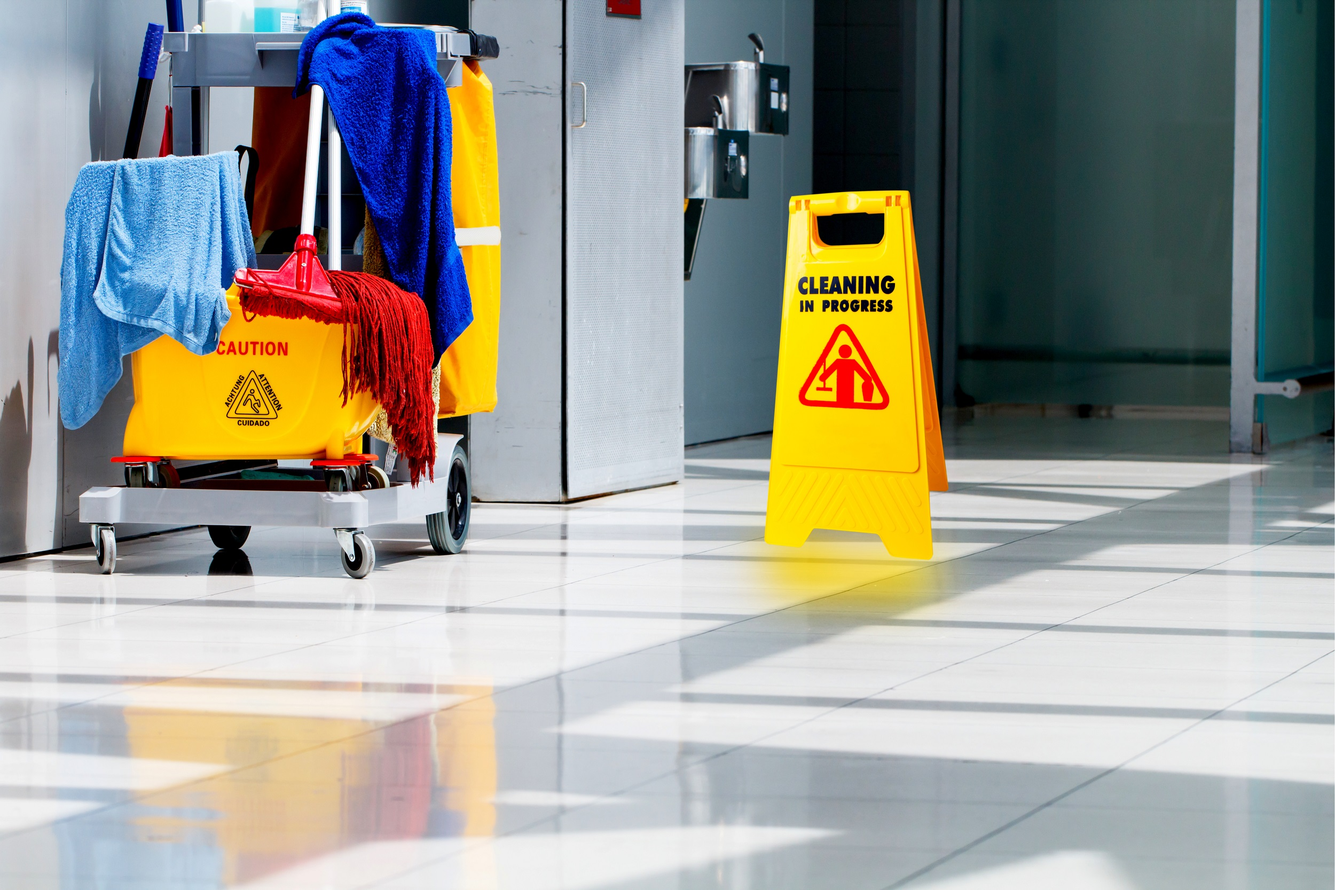
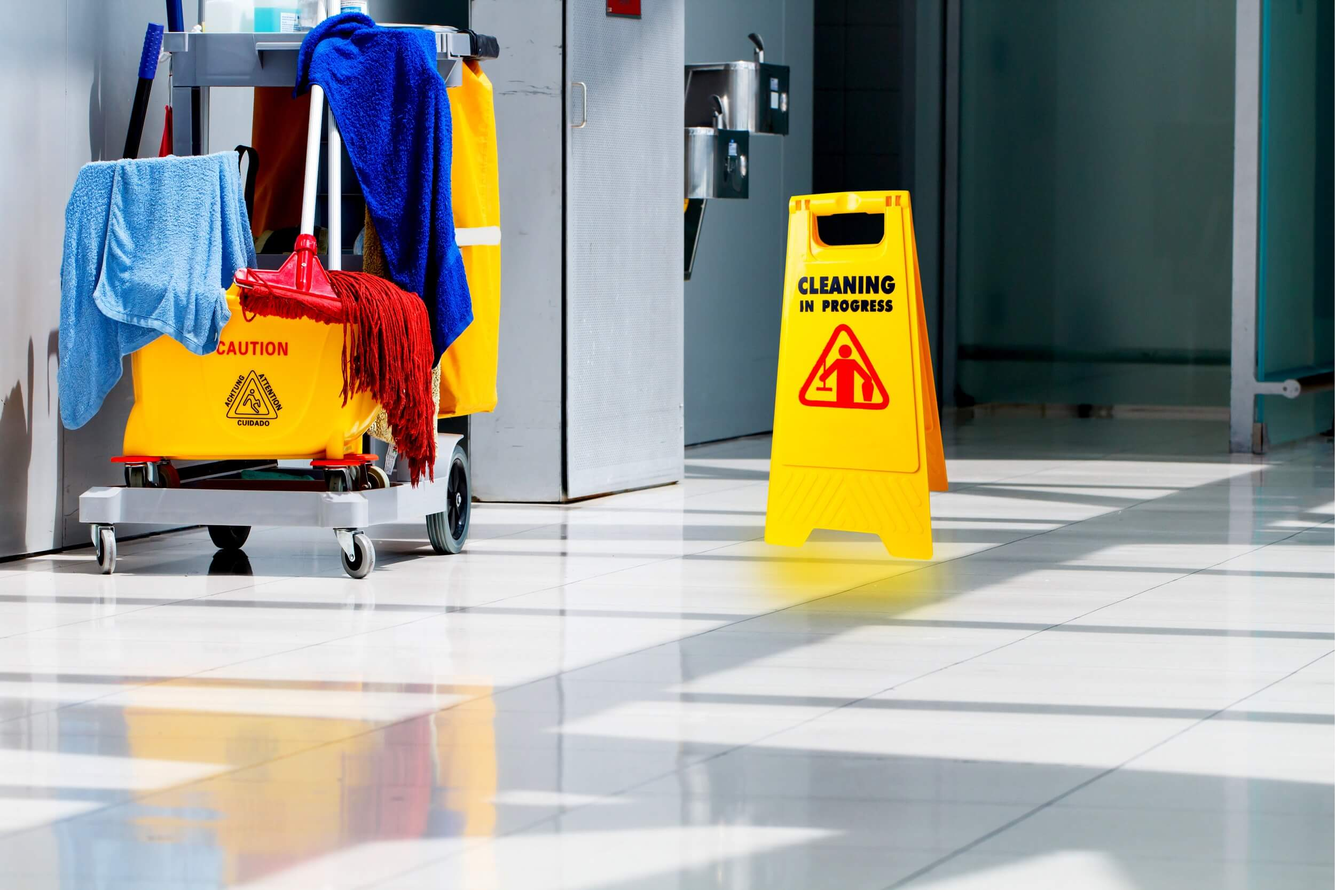
Added webp support

diff --git a/src/components/TailFoot.vue b/src/components/TailFoot.vue
@@ -43,7 +43,7 @@
         <div class="mt-12 grid grid-cols-2 gap-8 xl:mt-0 xl:col-span-2">
           <div class="md:grid md:grid-cols-2 md:gap-8">
             <div>
-              <h4 class="text-sm leading-5 font-semibold tracking-wider text-cool-gray-400 uppercase">
+              <h4 class="text-sm leading-5 font-semibold tracking-wider text-gray-500 uppercase">
                 Solutions
               </h4>
               <ul class="mt-4">
@@ -70,7 +70,7 @@
               </ul>
             </div>
             <div class="mt-12 md:mt-0">
-              <h4 class="text-sm leading-5 font-semibold tracking-wider text-cool-gray-400 uppercase">
+              <h4 class="text-sm leading-5 font-semibold tracking-wider text-gray-500 uppercase">
                 Support
               </h4>
               <ul class="mt-4">
@@ -99,7 +99,7 @@
           </div>
           <div class="md:grid md:grid-cols-2 md:gap-8">
             <div>
-              <h4 class="text-sm leading-5 font-semibold tracking-wider text-cool-gray-400 uppercase">
+              <h4 class="text-sm leading-5 font-semibold tracking-wider text-gray-500 uppercase">
                 Company
               </h4>
               <ul class="mt-4">
@@ -126,7 +126,7 @@
               </ul>
             </div>
             <div class="mt-12 md:mt-0">
-              <h4 class="text-sm leading-5 font-semibold tracking-wider text-cool-gray-400 uppercase">
+              <h4 class="text-sm leading-5 font-semibold tracking-wider text-gray-500 uppercase">
                 Legal
               </h4>
               <ul class="mt-4">

diff --git a/src/components/TailHero.vue b/src/components/TailHero.vue
@@ -96,7 +96,12 @@
       </div>
     </div>
     <div class="lg:absolute lg:inset-y-0 lg:right-0 lg:w-1/2">
-      <div class="thatimage h-56 w-full object-cover sm:h-72 md:h-96 lg:w-full lg:h-full" />
+      <picture>
+        <source srcset="~/static/janitor.webp" type="image/webp">
+        <source srcset="~/static/janitor.jpg" type="image/jpeg">
+        <img class="h-56 w-full object-cover sm:h-72 md:h-96 lg:w-full lg:h-full" src="~/static/janitor.jpg" alt="">
+      </picture>
+      <div class="absolute inset-0 bg-blue-400 opacity-25 h-full flex flex-col" />
     </div>
   </div>
 </template>
@@ -113,12 +118,9 @@ export default {
 </script>
 
 <style scoped>
-.thatimage {
+.thatimage:after {
   /*saltlakecity3.jpg */
-  background-image: linear-gradient(rgba(22, 59, 103, 0.22), rgba(2, 9, 15, 0.45)),
-    url('../static/janitor.jpg');
-  background-size: auto, cover;
-  background-position: center;
+  background-image: linear-gradient(rgba(22, 59, 103, 0.22), rgba(2, 9, 15, 0.45));
   /* background-attachment: fixed; */
 }
 </style>
